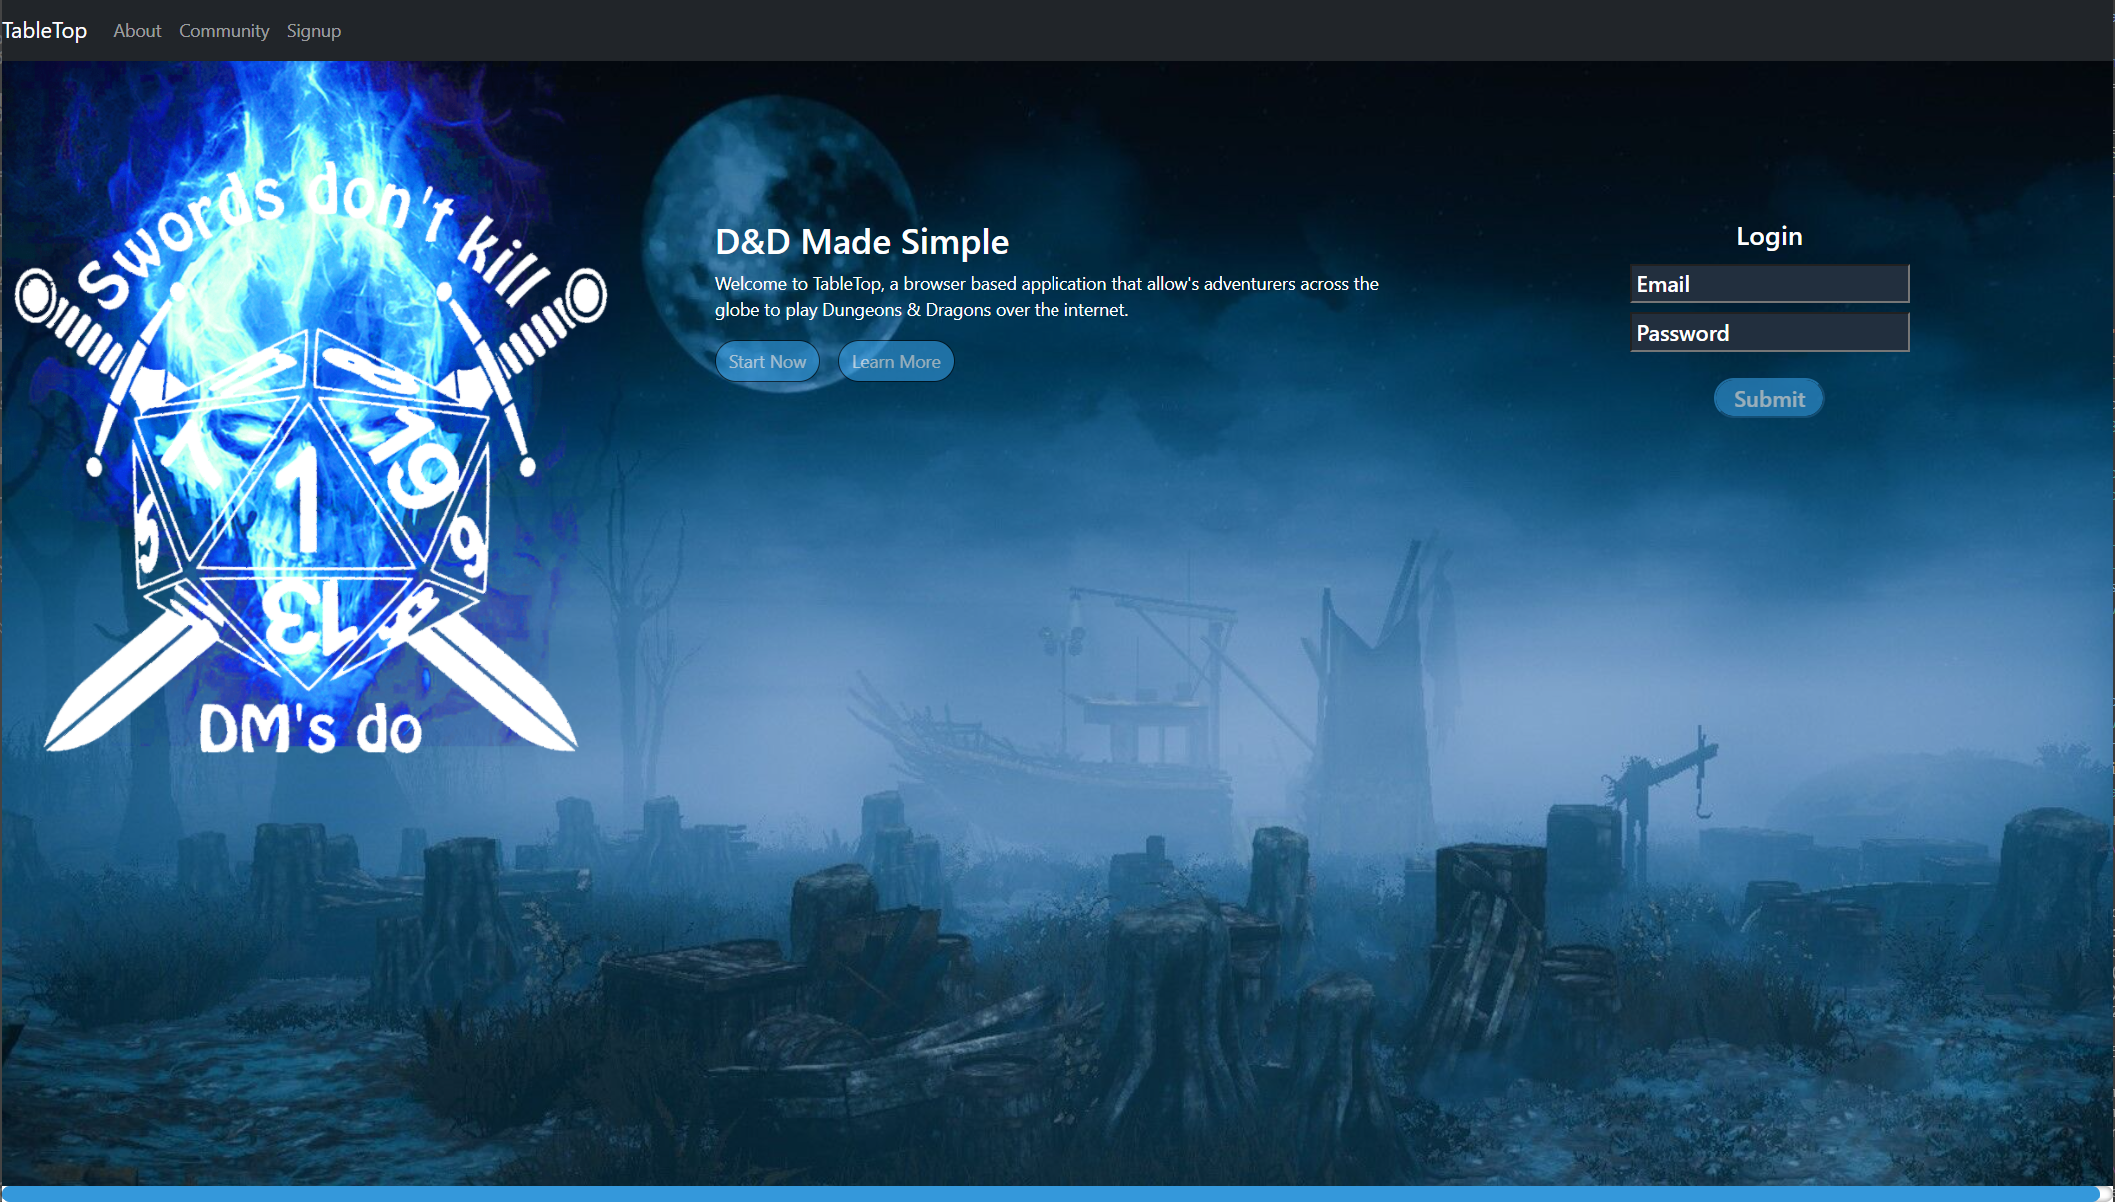
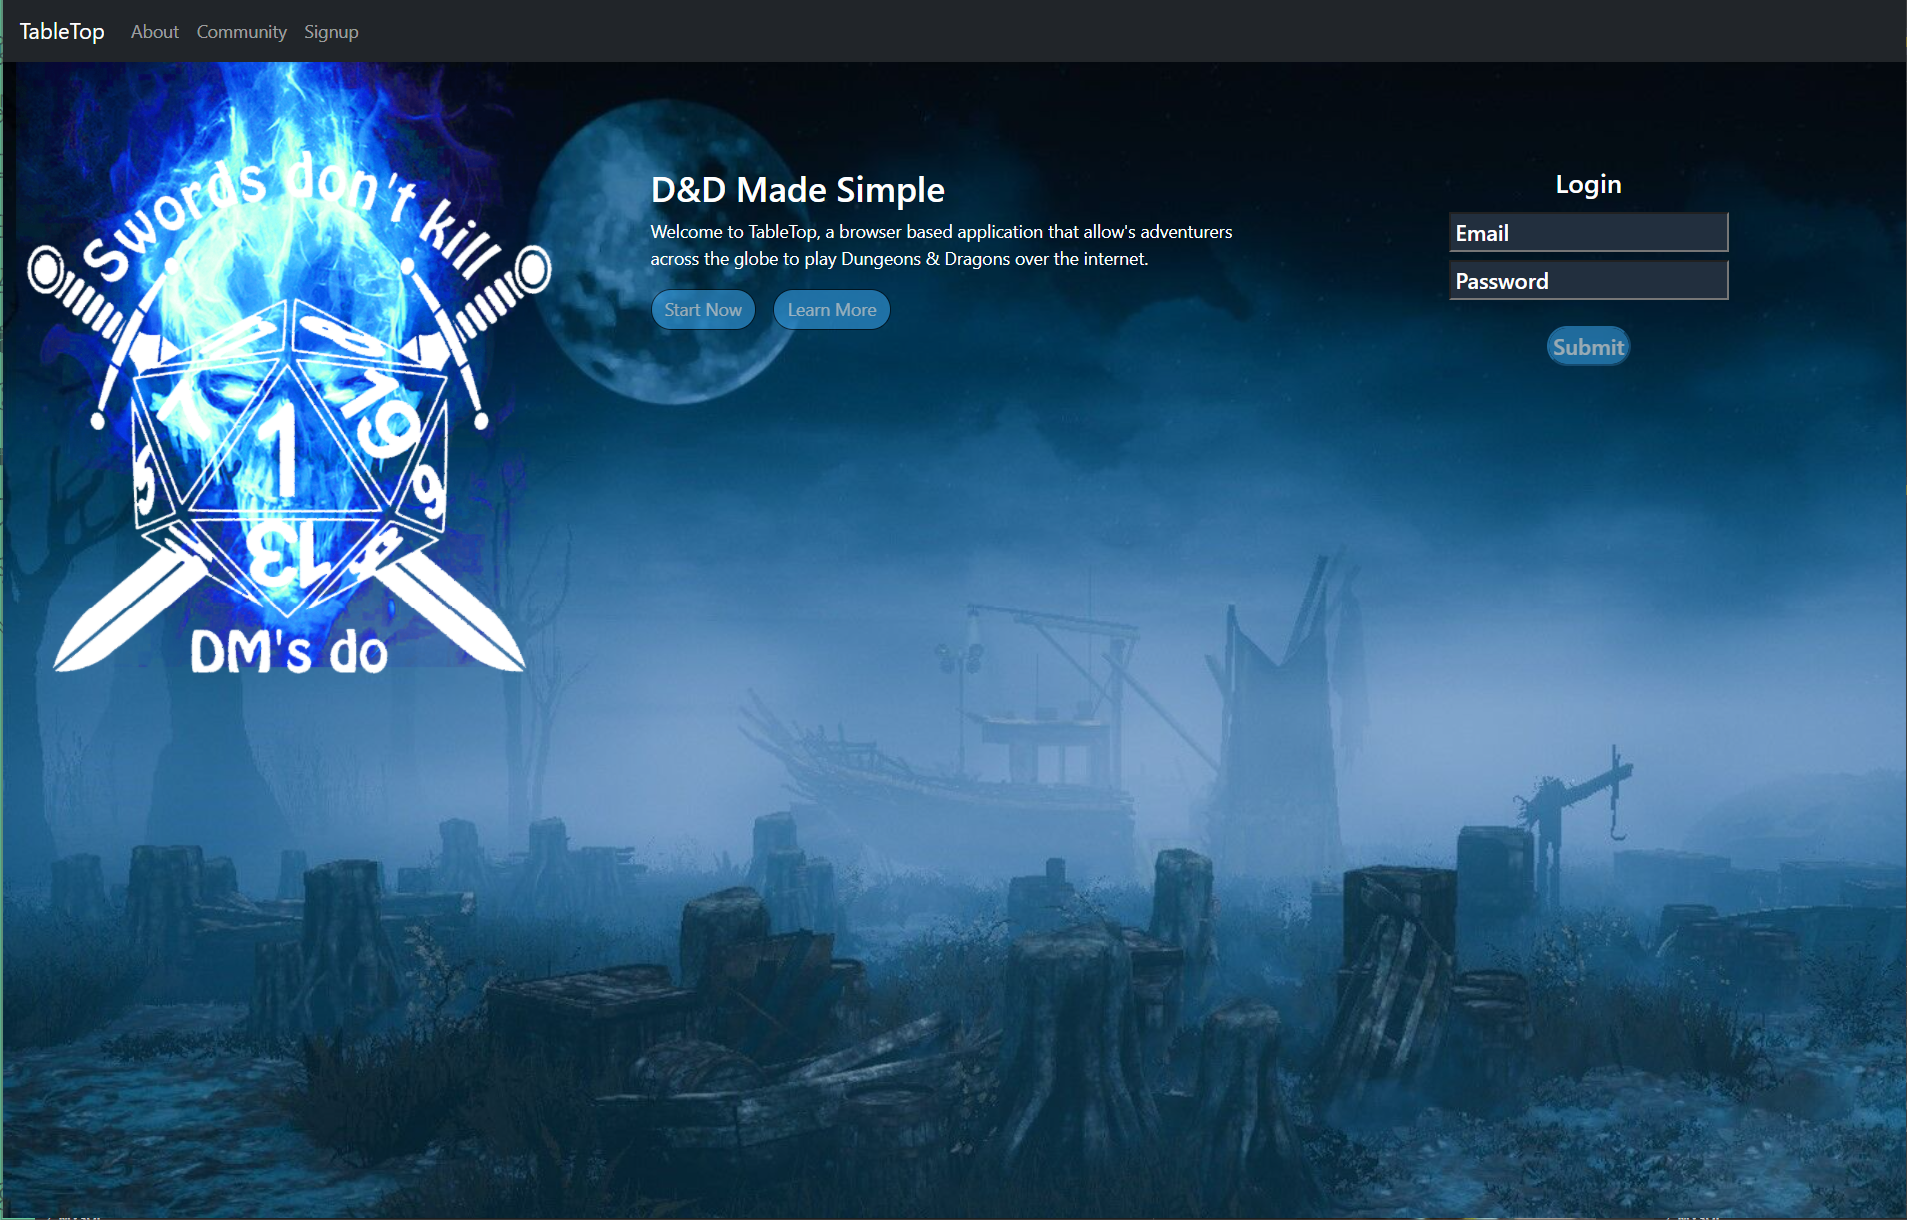
fixed inputs

diff --git a/src/components/Pages/Signup.js b/src/components/Pages/Signup.js
@@ -79,38 +79,38 @@ export default function Signup(props) {
         onSubmit={handleSignupSubmit}
       >
         <h4>Signup</h4>
-        <input className="m-1" id="username-signup"
+        <input className="h5 m-1 p-1 inputColor" id="username-signup"
           value={signupFormState.username}
           name="username"
           onChange={handleSignupChange}
-          placeholder="username"
+          placeholder="Username"
         />
         <br />
-        <input className="m-1" id="email-signup"
+        <input className="h5 m-1 p-1 inputColor" id="email-signup"
           value={signupFormState.email}
           name="email"
           onChange={handleSignupChange}
           type="email"
-          placeholder="email"
+          placeholder="Email"
         />
         <br />
-        <input className="m-1" id="password-signup"
+        <input className="h5 m-1 p-1 inputColor" id="password-signup"
           value={signupFormState.password}
           name="password"
           onChange={handleSignupChange}
           type="password"
-          placeholder="password"
+          placeholder="Password"
         /><br />
-        <input className="m-1" id="confirmPassword-signup"
+        <input className="h5 m-1 p-1 inputColor" id="confirmPassword-signup"
           value={signupFormState.confirmPassword}
           name="confirmPassword"
           onChange={handleSignupChange}
           type="password"
-          placeholder="confirm password"
+          placeholder="Confirm Password"
         /><br />
 
         <p>{props.errorMsg}</p>
-        <button className="btn" id="signup-btn">Submit</button>
+        <button className="h5 m-1 p-2" id="signup-btn">Submit</button>
 
       </form>
       <div className="col-4">

diff --git a/src/components/Pages/Home.js b/src/components/Pages/Home.js
@@ -70,24 +70,24 @@ function Home(props) {
           >
             {props.errorMsg ? <Gandalf /> : null}
             <h4>Login</h4>
-            <input className="m-1" id="email-login"
+            <input className="h5 m-1 p-1 inputColor" id="email-login"
               value={loginFormState.email}
               name="email"
               onChange={handleLoginChange}
               type="email"
-              placeholder="email"
+              placeholder="Email"
             />
             <br />
-            <input className="m-1" id="password-login"
+            <input className="h5 m-1 p-1 inputColor" id="password-login"
               value={loginFormState.password}
               name="password"
               onChange={handleLoginChange}
               type="password"
-              placeholder="password"
+              placeholder="Password"
             />
             <br />
             <p>{props.errorMsg}</p>
-            <button className="btn m-1" id="submit-login">Submit</button>
+            <button className="h5 m-1 p-1" id="submit-login">Submit</button>
           </form> : null}
         </div>
       </div>
